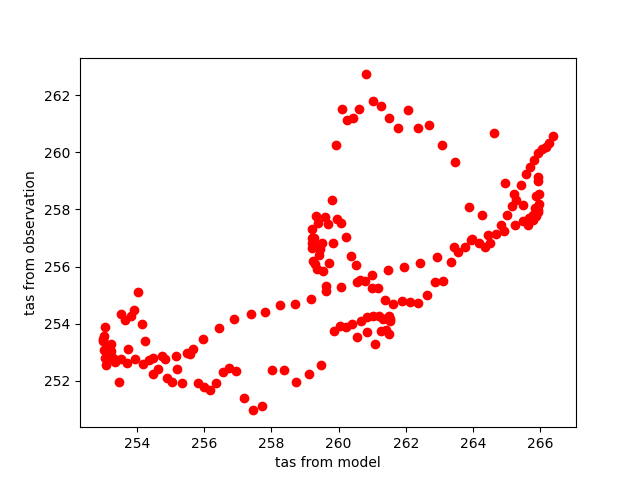
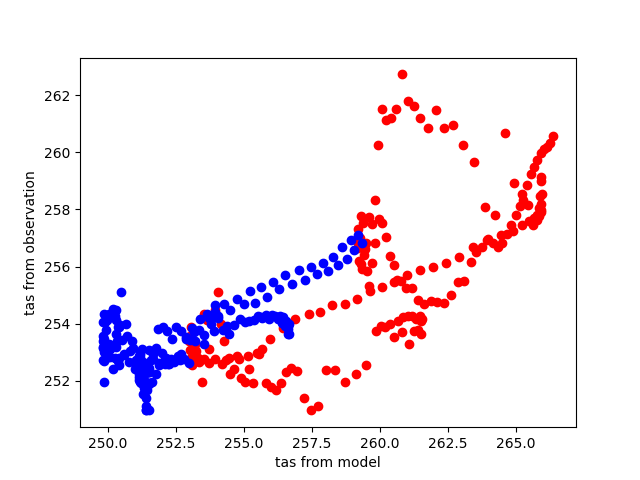
Worked on fixing tiny dumb things as well as Lat lon filtering (which is complete, and seems to work) bug found in plotting data w. different time units (min vs. hours) , another bug found in combining files.

diff --git a/Code/get_var_sets.py b/Code/get_var_sets.py
@@ -13,12 +13,12 @@ import os
 #it creates a new time array to fit the concatenated variables.
 #Returns a dictionary with the variable names as keys and the concatenated variables as values.
 
-def combine_files(data_sets,start_time,time_wanted,variables,height_high,height_low):
+def combine_files(data_sets,settings,target_lat_lon):
     data = {}
 
     #calculates the index of the last time needed for time filtering purposes
     #also gives the time unit from the first dataset in the list
-    index_end,unit = get_time(data_sets,start_time,time_wanted)
+    index_end,unit = get_time(data_sets[0],settings["start_date"],settings["time_wanted"])
 
     #takes the time data from all the datasets, 
     #converts them to use the same unit as used in the first file
@@ -38,31 +38,42 @@ def combine_files(data_sets,start_time,time_wanted,variables,height_high,height_
 
     #adds this new time variable into the dictionary as datetime objects
     #as well as its units.
-    data["time_total"] = total_time
+    data["time_str"] = total_time
     data["time_units"] = unit
 
     #calculates indecies used for filtering by height
     try:
-        level,half_level = get_levels(data_sets[0],height_high,height_low)
+        level,half_level = get_levels(data_sets[0],settings["height_high"],settings["height_low"])
     except IndexError:
         print("Index error in get_level: highest height lower than lowest height in model")
            
-   
+    index_lat , index_lon, single = get_lat_lon(data_sets[0],target_lat_lon,settings)
+
     #goes though each variable in the list and creates a dictionary key for it,
     #assigning the value of the filtered concatinated variable
-    for variable in variables:
+    for variable in settings["variables"]:
         total = []
         for dataset in data_sets:
             var = dataset[variable]
             dim = var.dimensions
             value = np.array(var[0:index_end])
+
+            #filters by latitude and longitide
+            if "lat" in dim:
+                if single == True:
+                    value = value[:,index_lat,index_lon]
+                else:
+                    value = value[:,index_lat[0]:index_lat[1],index_lon[0]:index_lon[1]]
+                    
             
             #rearanges arrays in the format (time,lat,lon,level) 
             #to the format of (time,level,lat,lon) to match
             #the format of variables in the format of (time,level) that do not contain lat & lon.
             #simplifies future filtering
-            if ("lat" in dim and "lon" in dim) and len(dim) == 4:
+            if ("lat" in dim and "lon" in dim) and np.shape(value) == 4:
                 value = np.transpose(value, (0, 3, 1, 2))
+
+            
 
             #filters by half level or level if necessary
             if "half-level" in dim:
@@ -73,16 +84,19 @@ def combine_files(data_sets,start_time,time_wanted,variables,height_high,height_
             total.append(value)
         
         data[variable] = np.concatenate(total)
-    return data
+    #the output needs to be a list due to the fact that the output of
+    #single_files() is a list and the two need to utilize the same functions
+    datalst = [data]
+    return datalst
 
 ##########################################################################################
 #filters variables from single files by time, returns a list of dictionaries.
 
-def single_files(data_sets,start_time_str,time_wanted,variables, height_high,height_low):
+def single_files(data_sets,settings,target_lat_lon):
     variable_sets = []
 
     #calculates the index of the last time needed for time filtering purposes
-    end_index = get_time(data_sets,start_time_str,time_wanted)[0]
+    end_index = get_time(data_sets[0],settings["start_date"],settings["time_wanted"])[0]
 
     #goes through datasets in the data_sets list and creates a dictionary 
     #with wanted variables filtered by height and time
@@ -98,22 +112,32 @@ def single_files(data_sets,start_time_str,time_wanted,variables, height_high,hei
         
         #gets level and half_level indecies for filtering purposes
         try:
-            level, half_level = get_levels(ds,height_high,height_low)
+            level, half_level = get_levels(ds,settings["height_high"],settings["height_low"])
         except IndexError:
             print("Index error in get_level: highest height lower than lowest height in model")
             break
 
-        for variable in variables:
+        index_lat , index_lon, single = get_lat_lon(data_sets[0],target_lat_lon,settings)
+
+        for variable in settings["variables"]:
             var = ds[variable]
             dim = var.dimensions
             
             value = np.array(ds[variable][0:end_index])
 
+            #filters by latitude and longitide
+            if "lat" in dim:
+                if single == True:
+                    value = value[:,index_lat,index_lon]
+                else:
+                    value = value[:,index_lat[0]:index_lat[1],index_lon[0]:index_lon[1]]
+                    
+
             #rearanges arrays in the format (time,lat,lon,level) 
             #to the format of (time,level,lat,lon) to match
             #the format of variables in the format of (time,level) that do not contain lat & lon.
             #simplifies future filtering
-            if ("lat" in dim and "lon" in dim) and len(dim) == 4:
+            if ("lat" in dim and "lon" in dim) and np.shape(value) == 4:
                 value = np.transpose(value, (0, 3, 1, 2))
 
             #filters by level and half level if necessary
@@ -212,9 +236,9 @@ def get_levels(data_set,height_high,height_low):
 #######################################################################################
 #handles the retreival of an end time index for filtering by time
 
-def get_time(data_sets,start_time_str,time_wanted):
+def get_time(data_set,start_time_str,time_wanted):
     #creates the time variable 
-    time_var = data_sets[0]["time"]
+    time_var = data_set["time"]
     time_data = time_var[:]
 
     #adapts the time_wanted variable (which is in hours)
@@ -238,3 +262,36 @@ def get_time(data_sets,start_time_str,time_wanted):
 
     #returns this index as well as the time units used to calculate it
     return end_index,unit
+
+############################################################################################
+#this function handles the selection of latitude and longtude indecies for filtering 
+#purposes
+
+def get_lat_lon(data_set,target, settings):
+    data_lat = np.array(data_set["lat"])
+    data_lon = np.array(data_set["lon"])
+
+    if len(data_lon) == 1 or len(data_lat) == 1:
+        #if there is only one latitude and longitude in the dataset
+        #that lat & lon are selected
+        lat_ind = 0
+        lon_ind = 0
+        single = True
+    else:
+        #if there are multiple lat & lon points
+        if settings["single_point"] == "True":
+            #if single point set to True in settings.json the closest value to 
+            #the lat & lon in the observational file is found and that index is recorded
+            lat_ind = np.abs(data_lat-target[0]).argmin()
+            lon_ind = np.abs(data_lon-target[1]).argmin()
+            single = True
+        else: 
+            #if single point isn't set to True in settings.json the index ranges are
+            #taken from settings.json
+            lat_ind = (settings["lat_ind_lo"],settings["lat_ind_hi"])
+            lon_ind = (settings["lon_ind_lo"],settings["lon_ind_hi"])
+            single = False
+
+    #in the first to cases the output will be integers representing the index of the value
+    #in the last the output will be a tuple with the index range for the values wanted
+    return lat_ind,lon_ind,single

diff --git a/Code/timevar.py b/Code/timevar.py
@@ -5,45 +5,33 @@ import cftime as cf
 
 def plot_single(data,settings,plot_type):
     time_units = data[0]["time_units"]
-    print(data[0]["ts"])
     for sets in data:
         time_plt = cf.date2num(sets["time_str"],time_units,calendar="standard")
         for key in sets.keys():
             if "time" not in key:
-                if len(np.shape(sets[key])) < 3:
-                    plt.plot(time_plt,sets[key],label = key)
+                plt.plot(time_plt,sets[key],label = key)
 
-                elif len(np.shape(sets[key])) < 4: 
-                    plt.plot(time_plt,sets[key][:,0,0],label = key)
-
-                else:
-                    plt.plot(time_plt,sets[key][:,0,0,0],label = key)
+    
                     
     plt.xlabel(time_units)
     path = "/home/jojo161/MISU/job_summer_2020/Figures/"
-    img_name = path + settings["plot_name"] + plot_type +".png"
+    img_name = path + settings["plot_name"] +"_"+ plot_type +".png"
     plt.legend()
     plt.savefig(img_name) 
     plt.close()  
         
         
 
-def plot_combined(data,settings):
-    time_num = cf.date2num(data["time_total"],data["time_units"],calendar="standard")
+def plot_combined(data,settings,plot_type):
+    time_num = cf.date2num(data["time_str"],data["time_units"],calendar="standard")
+    time_units = data["time_units"]
     for key in data.keys():
         if "time" not in key:
-            if len(np.shape(data[key])) < 3:
-                #if shape is (time,level)
                 plt.plot(time_num,data[key],label = key)
-            elif len(np.shape(data[key])) < 4:
-                #if shape is (time,lat,lon)
-                plt.plot(time_num,data[key][:,0,0],label = key)     
-            else:
-                #if shape is (time,level,lat,lon)
-                plt.plot(time_num,data[key][:,:,0,0],label = key)
+        
    
     path = "/home/jojo161/MISU/job_summer_2020/Figures/"
-    img_name = path + settings["plot_name"] +".png"
+    img_name = path + settings["plot_name"]+"_" + plot_type +".png"
     plt.xlabel(time_units)
     plt.legend()
     plt.savefig(img_name)

diff --git a/Code/main.py b/Code/main.py
@@ -19,11 +19,16 @@ settings_list = load_settings(fn)
 #as multiple runs with different settings can be read from the same settings file
 #these different settings are looped.
 
-for setting in settings_list:   
+for setting in settings_list: 
+    print("=========================================================================")  
     if setting["local"] == "True":
         #takes the files from a specified local directory, see get_local_ds.py
         mod_ds, obs_ds = get_local_ds(setting["start_date"],setting["end_date"],setting["path_to_db"],setting["site"],setting["model_types"],setting["forcast_time"])
         
+        #takes the latitude and longitude from the first observational file to use in filtering
+        #in single_files() and combined_files()
+        target_lat_lon = (obs_ds[0]["lat"],obs_ds[0]["lon"])
+
         #observational files are always handled the same way, here the required data is 
         #retrieved and filtered, see get_var_sets.py
         filtered_obs_var = observation_files(obs_ds,setting["start_date"],setting["end_date"],setting["height_high"],setting["height_low"])
@@ -31,10 +36,10 @@ for setting in settings_list:
         
         if setting["single"] == "True":
             #handles the files as single entities, retrieves data and filters it, see get_var_sets.py
-            filtered_mod_var = single_files(mod_ds,setting["start_date"],setting["time_wanted"],setting["variables"],setting["height_high"],setting["height_low"])
+            filtered_mod_var = single_files(mod_ds,setting,target_lat_lon)
         else:
             #combines multiple files into one set of data and filters it, see get_var_sets.py
-            filtered_mod_var = combine_files(mod_ds,setting["variables"],setting["start_date"],setting["time_wanted"],setting["height_high"],setting["height_low"])
+            filtered_mod_var = combine_files(mod_ds,setting,target_lat_lon)
     
     #plots the data retreived above, see plot.py
     plot(filtered_mod_var,filtered_obs_var[0],setting)

diff --git a/Code/tests/test_ma.py b/Code/tests/test_ma.py
@@ -12,29 +12,17 @@ import datetime as dt
 #start will be 2018 08 14 00:00:00 and end will be 2018 08 16 23:00:00
 # take that timespan of each file
 
-def observation_file(obs_ds,start_time,end_time, height_high,height_low):
-    variable_lst = [[ "tas_2m","tas_10m", "tas_20m"],["potato"]]
-    time_var = obs_ds[0]["time"]
-    t = np.array(time_var[:])
+array = np.array([[10, 11, 12],[13, 14, 15]])
 
-    stime_dt = dt.datetime.strptime(start_time,'%Y-%m-%d %H:%M:%S')
-    stime_num = cf.date2num(stime_dt,time_var.units,calendar="standard")
+print(array)
 
-    etime_dt = dt.datetime.strptime(end_time,'%Y-%m-%d %H:%M:%S')
-    etime_num = cf.date2num(etime_dt,time_var.units,calendar="standard")
+target_easy = 11
+target_meeep = 11.5
 
-    time_index = np.where(((t >= stime_num)&(t<=etime_num)))[0]
-    tindex_lo = time_index[0]
-    tindex_hi = time_index[-1]
-    
-    variable_sets = []
-    for obs in obs_ds:
-        data = {}
-        variables = variable_lst[obs_ds.index(obs)]
-        for variable in variables:
-            data[variable] = obs[variable][tindex_lo:tindex_hi]
-        variable_sets.append(data)
-    
-    return variable_sets
+idx_easy = np.abs(array-target_easy).argmin()
 
+print(idx_easy)
 
+idx = np.abs(array-target_meeep).argmin()
+
+print(idx)

diff --git a/Code/get_local_ds.py b/Code/get_local_ds.py
@@ -54,11 +54,11 @@ def get_local_ds(start_date,end_date,path_to_db,site,model_types,forcast_time):
             files = file_lst[index[0]:index[1]+1]
             [files_path.append(dir_path+"/"+name) for name in files]
         
-
+    print(files_path)
     model_ds = [nc.Dataset(f_path) for f_path in files_path]
 
     #two lists of datasets are returned, one for model data one for observation data  
-    print("files",len(model_ds))
+    #print("files",len(model_ds))
         
     return model_ds, obs_ds
 

diff --git a/Code/plot.py b/Code/plot.py
@@ -16,7 +16,7 @@ def plot(mod_var,obs_var,settings):
             if settings["single"] == "True":
                 plot_single(mod_var,settings,plt_type)
             else:
-                plot_combined(mod_var,settings)
+                plot_combined(mod_var[0],settings,plt_type)
         elif plt_type == "scatter":
             scatter_plot(mod_var,obs_var,settings,"tas")
 

diff --git a/Code/scatter.py b/Code/scatter.py
@@ -25,8 +25,9 @@ def scatter_plot(mod_data,obs_data,settings,var_name):
     #creates a list of colors to use for different models if more than one is used
     colors = settings["colors"]
     color_index = 0
-
+    
     for model in mod_data:
+
         color = colors[color_index]
        
         #converts the observational data timestring to numbers using the units 
